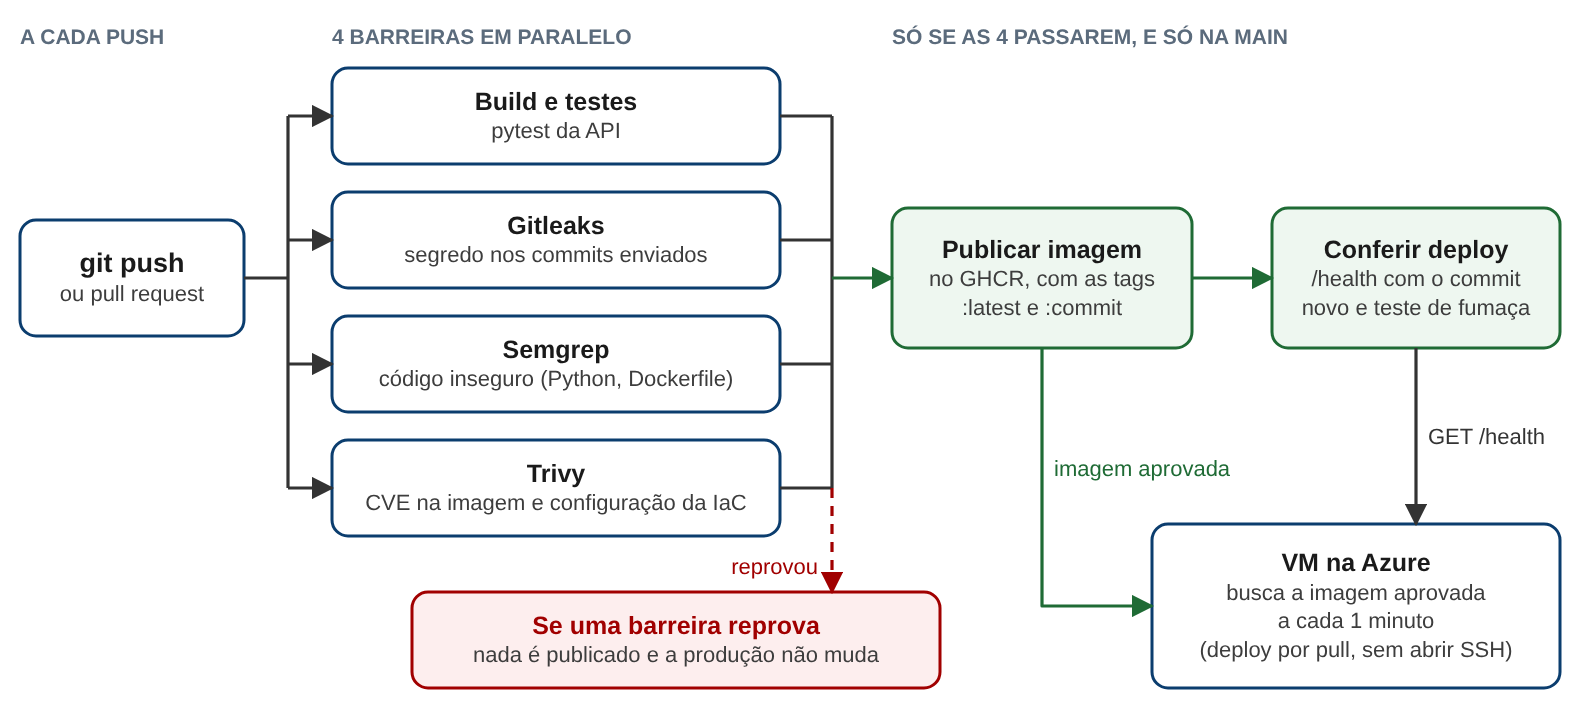
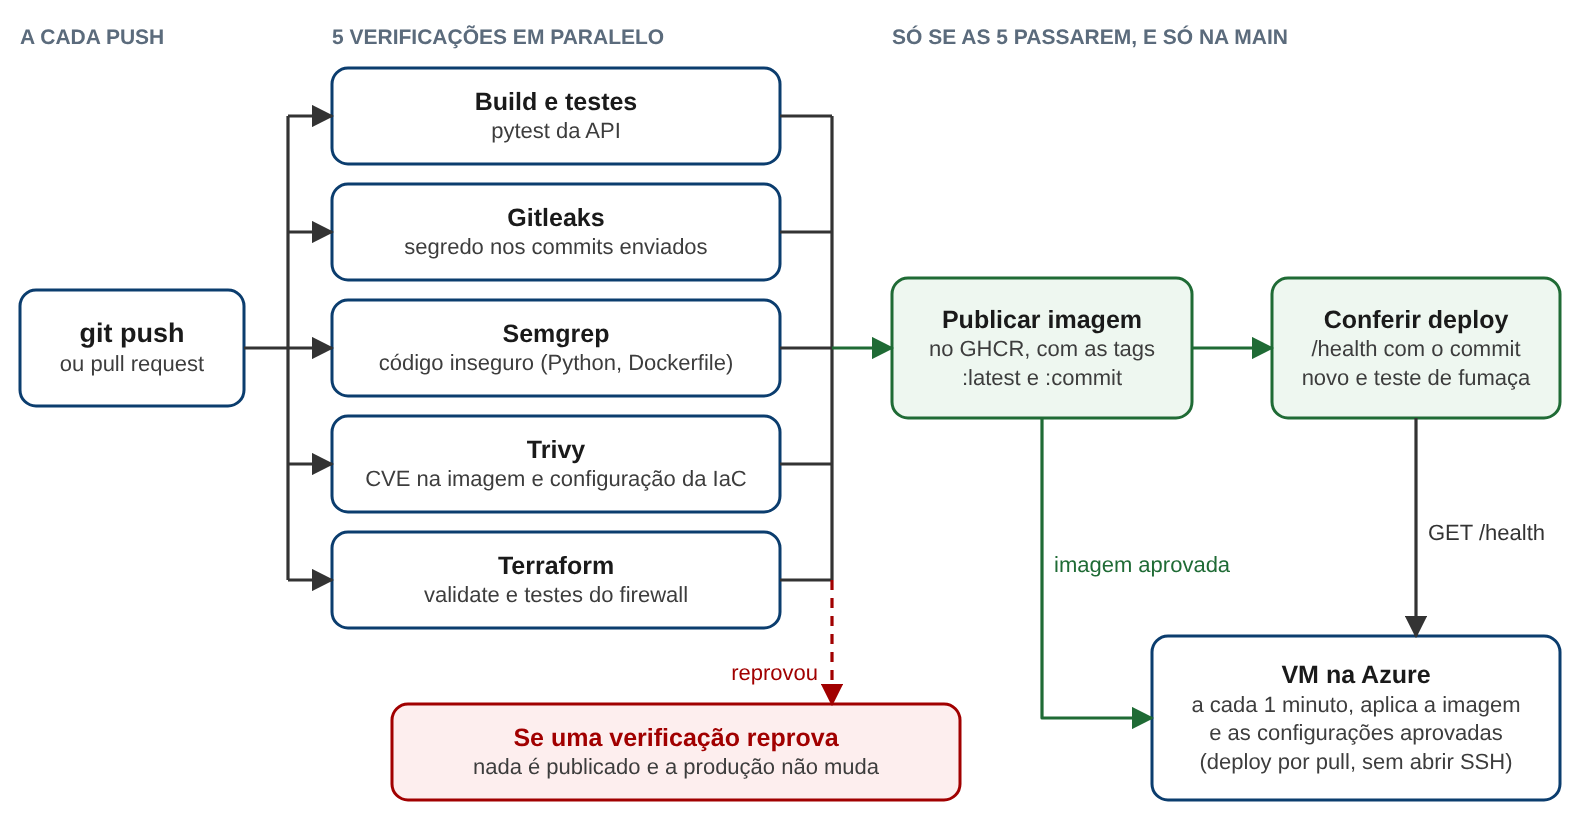
Documenta a execução barrada e a corrigida; imagem sem pip; Gitleaks tolera histórico reescrito
- docs/devsecops.md: execuções nº 5 (barrada pelo Gitleaks) e nº 6 (corrigida),
  com links, comparação job a job e o trecho do log
- figuras do pipeline e da arquitetura com a verificação do Terraform
- Dockerfile: remove o pip da imagem final
- workflow: se o commit anterior não existir mais (push forçado), o Gitleaks
  analisa o histórico inteiro em vez de falhar

diff --git a/docs/devsecops.md b/docs/devsecops.md
@@ -8,7 +8,7 @@ Como o MVP chega ao cidadão: empacotado em container, numa nuvem descrita por c
 
 | Requisito | Como foi atendido | Onde |
 |---|---|---|
-| Dockerfile enxuto | Multi-stage: o estágio `build` instala as dependências num venv; a imagem final copia só o venv e o código, sem pip, compiladores ou cache. Base `python:3.13-slim` com `apt-get upgrade` para receber as correções de segurança | `mvp/Dockerfile` |
+| Dockerfile enxuto | Multi-stage: o estágio `build` instala as dependências num venv; a imagem final copia só o venv e o código, sem compiladores nem cache, e o pip da imagem base é removido. Tamanho: 70 MB compactada. Base `python:3.13-slim` com `apt-get upgrade` para receber as correções de segurança | `mvp/Dockerfile` |
 | Usuário não root | `USER app` (uid 10001) | `mvp/Dockerfile` |
 | Sem segredo na imagem | Nenhum `ENV` com senha; tudo chega por variável de ambiente em tempo de execução. `.dockerignore` exclui `.env` e bancos locais. O Trivy também procura segredos | `mvp/.dockerignore` |
 | Stack com `docker compose` | `docker compose up -d` sobe banco, API, Caddy e, com perfis, a automação de triagem (serviço `robo`), Prometheus, Grafana e node-exporter | `docker-compose.yml` |
@@ -22,7 +22,7 @@ Terraform com o provedor `azurerm` cria grupo de recursos, rede virtual, sub-red
 |---|---|
 | State fora do repositório | Backend local; `*.tfstate` e `.terraform/` no `.gitignore` |
 | `.tfvars` fora do repositório | `*.tfvars` no `.gitignore`; só `terraform.tfvars.example` é versionado |
-| Porta de administração nunca aberta para 0.0.0.0/0 | SSH (22) e Grafana (3000) aceitam só `var.admin_cidr`. A variável tem **validação**: o `terraform apply` falha se alguém tentar `0.0.0.0/0` ou uma faixa maior que /24. Uma regra final nega todo o resto |
+| Porta de administração nunca aberta para 0.0.0.0/0 | SSH (22) e Grafana (3000) aceitam só `var.admin_cidr`. A variável tem **validação**: o `terraform apply` falha se alguém tentar `0.0.0.0/0` ou uma faixa maior que /24. Uma regra final nega todo o resto. Isso é **testado a cada push** (`infra/terraform/tests/firewall.tftest.hcl`, com a Azure simulada) |
 | Sem senha na VM | `disable_password_authentication = true`; acesso só por chave SSH |
 | Segredos | `random_password` gera as senhas do Postgres, do Grafana e a chave de acesso da automação de triagem (`ROBO_API_KEY`). Ninguém digita, ninguém vê no chat ou no código |
 
@@ -30,15 +30,49 @@ O Trivy aponta como CRITICAL a regra que libera 80/443 para a internet (AVD-AZU-
 
 ## 3. Pipeline DevSecOps (4,0)
 
-Arquivo: `.github/workflows/devsecops.yml`. Roda a cada push e pull request.
+Arquivo: `.github/workflows/devsecops.yml`. Roda a cada push e pull request. As cinco verificações rodam em paralelo, e a imagem só é publicada se todas passarem.
 
 ![Pipeline DevSecOps](pipeline.svg)
 
 - **Gitleaks** analisa os commits que chegaram no push (no primeiro push, o histórico inteiro). Qualquer segredo reprova.
 - **Semgrep** com as regras `p/python`, `p/dockerfile` e `p/secrets`; qualquer achado reprova (`--error`).
 - **Trivy** reprova CVE CRITICAL ou HIGH que já tenha correção, e configuração insegura em Dockerfile, compose e Terraform.
+- **Terraform** confere a formatação, valida a configuração (`terraform validate`) e roda os testes da infraestrutura (`terraform test`): `admin_cidr = 0.0.0.0/0` tem de ser recusado, e SSH e Grafana só podem aceitar o IP da equipe.
 - **Segredos no GitHub Secrets:** `ROBO_API_KEY` (usada no teste de fumaça para provar que a autenticação funciona em produção sem alterar dados). A publicação no GHCR usa o `GITHUB_TOKEN` temporário do próprio Actions. A URL fica em *Variables* (`MVP_URL`), porque não é segredo.
 - **Deploy automático:** a VM roda `infra/deploy/atualizar.sh` a cada minuto (timer do systemd). Ele baixa a imagem mais recente publicada, lê nela o commit que o pipeline aprovou (`GIT_SHA`) e deixa as configurações (compose, Caddyfile, Prometheus) nesse mesmo commit. Um commit barrado não chega à VM, nem como imagem nem como configuração. O job final só fica verde quando `GET /health` em produção responde com o commit que acabou de passar no pipeline.
+
+### Execução barrada e execução corrigida
+
+Em 16/11/2026 foi feito, de propósito, um commit com uma chave de acesso colada num script. A chave é falsa e não dá acesso a nada. O pipeline barrou; o commit seguinte corrigiu.
+
+| | Execução barrada | Execução corrigida |
+|---|---|---|
+| Commit | [`8ad629c`](https://github.com/CarlosGanzerli/calcada-livre/commit/8ad629cd45781744a90dd1d59607ed613989c917): chave colada em `infra/deploy/teste-fumaca.sh` | [`0b7eda4`](https://github.com/CarlosGanzerli/calcada-livre/commit/0b7eda4): a chave sai do arquivo e passa a vir do ambiente |
+| Execução | [nº 5](https://github.com/CarlosGanzerli/calcada-livre/actions/runs/43929781806) | [nº 6](https://github.com/CarlosGanzerli/calcada-livre/actions/runs/43930063131) |
+| Build e testes | passou | passou |
+| Gitleaks | **reprovou** | passou |
+| Semgrep | passou | passou |
+| Trivy | passou | passou |
+| Publicar imagem | **não executou** | publicou |
+| Conferir deploy | não executou | executou |
+
+Trecho do log do Gitleaks na execução barrada (o valor da chave é ocultado pelo próprio Gitleaks):
+
+```
+Finding:     ROBO_API_KEY="REDACTED"
+RuleID:      generic-api-key
+Entropy:     4.684184
+File:        infra/deploy/teste-fumaca.sh
+Line:        12
+Commit:      8ad629cd45781744a90dd1d59607ed613989c917
+WRN leaks found: 1
+##[error]Process completed with exit code 1.
+```
+
+- Como a publicação depende de todas as verificações, a imagem do commit barrado nunca existiu no GHCR, e a VM continuou no commit anterior.
+- O Semgrep não acusou essa chave (ela não tem um formato conhecido); o Gitleaks acusou pela entropia. Por isso as barreiras se somam.
+- A chave falsa continua no histórico do Git, como evidência, e está registrada no `.gitleaksignore`. Com um segredo de verdade, apagar o arquivo não basta: o primeiro passo é **revogar** a chave.
+- O job **Conferir deploy** só confere a produção depois que a variável `MVP_URL` é cadastrada (passo 6 do [guia de deploy](guia-deploy.md)); antes disso ele registra um aviso e não falha.
 
 **Por que deploy por pull e não por SSH?** Para fazer SSH a partir do GitHub Actions seria preciso liberar a porta 22 para os IPs dos runners, que mudam o tempo todo, na prática abrindo a porta de administração para a internet. Com o pull, nenhuma porta administrativa fica exposta e a VM só executa imagens que passaram por todas as barreiras.
 

diff --git a/README.md b/README.md
@@ -54,7 +54,7 @@ FIAP Global Solution 2026.2 · Engenharia de Software 4º ano · disciplina *Sec
 
 ![Pipeline DevSecOps](docs/pipeline.svg)
 
-A cada push rodam, em paralelo, build e testes, Gitleaks, Semgrep e Trivy. A imagem só é publicada no GHCR se as quatro barreiras passarem. A execução barrada e a corrigida estão descritas, com os links, em [docs/devsecops.md](docs/devsecops.md#3-pipeline-devsecops-40).
+A cada push rodam, em paralelo, build e testes, Gitleaks, Semgrep, Trivy e a validação do Terraform. A imagem só é publicada no GHCR se as cinco verificações passarem. A execução barrada e a corrigida estão descritas, com os links, em [docs/devsecops.md](docs/devsecops.md#execução-barrada-e-execução-corrigida).
 
 ## Rodar localmente
 
